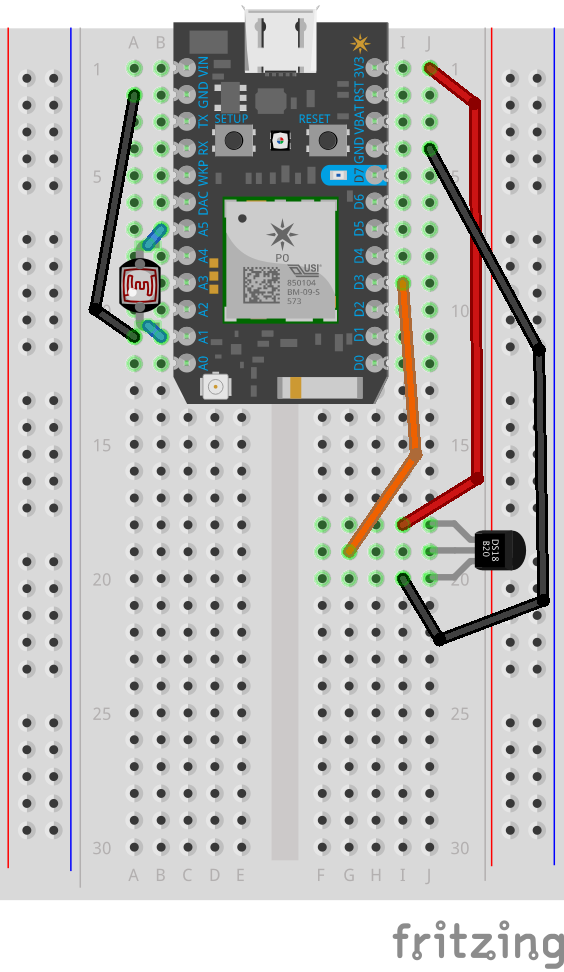
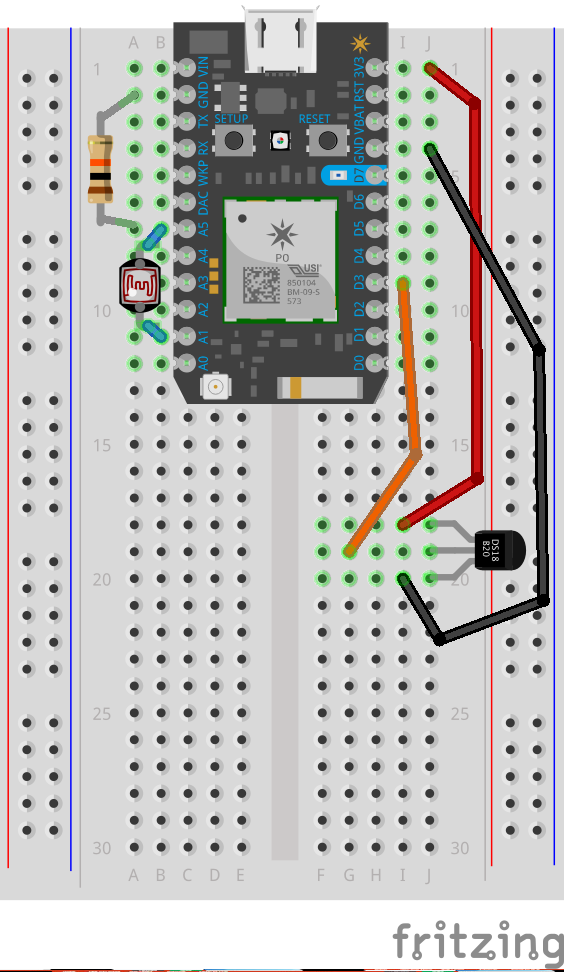
at 09:18 of 2018-06-01

Changed region(s): [[0.0, 0.9877, 1.0, 1.0], [0.1507, 0.0926, 0.2713, 0.3704]]

diff --git a/style-guide/README.md b/style-guide/README.md
@@ -1,0 +1,59 @@
+# Style Guide for Writing Firmware for the Particle Photon
+by [Nathan Robinson](https://nrobinson.me)
+
+## The Different Parts of a Particle Sketch
+
+### Before setup()
+
+* Includes
+* System settings
+* Globally scoped variables
+* Globally scoped objects
+* Function prototypes
+* Utility functions
+
+### Inside setup()
+
+* pinModes
+* Digital and Analog I/O
+* Variable initialization
+* Sensor and Object initialization
+* Serial monitor initialization
+* Declare Particle Cloud variables
+* Declare Particle Cloud variables
+* Declare Particle Cloud subscriptions
+* Connect to Particle Cloud
+
+### Inside loop()
+
+* Digital and Analog I/O
+* Read sensors
+* Receive data
+* Process data
+* Publish data
+
+### After loop()
+
+* Define Particle Cloud subscription handler functions
+* Define other functions
+
+
+
+
+
+
+
+
+
+
+
+
+
+
+
+
+
+
+
+
+#

diff --git a/parts-list/README.md b/parts-list/README.md
@@ -1,0 +1,42 @@
+# Parts list for engine-iot lessons
+
+## Lesson 0: Introduction to the Particle Photon
+
+* Particle Photon
+* Breadboard
+* Micro-USB cable
+
+## Lesson 1: Digital Input and Output
+
+* Particle Photon
+* Breadboard
+* Micro-USB cable
+* Pushbutton (momentary switch)
+* At least 2 Jumper Wires
+
+## Lesson 2: Analog Input and Output
+
+* Particle Photon
+* Breadboard
+* Micro-USB cable
+* Pushbutton (momentary switch)
+* Green LED
+* Red LED
+* Photo-resistor
+* 10K Ohm Resistor
+* Potentiometer
+* Piezo Buzzer
+* At least 10 Jumper Wires
+
+## Lesson 4: Introduction to the Particle Cloud
+* TBD
+
+# Lesson 5: Particle and Alexa
+
+* Particle Photon
+* Breadboard
+* Micro-USB cable
+* Photo-resistor
+* 10K Ohm Resistor
+* One Wire Digital Temperature Sensor - DS18B20
+* 3 Jumper Wires

diff --git a/style-guide/NOTES.md b/style-guide/NOTES.md
@@ -1,0 +1,3 @@
+# Notes
+
+* Callbacks
